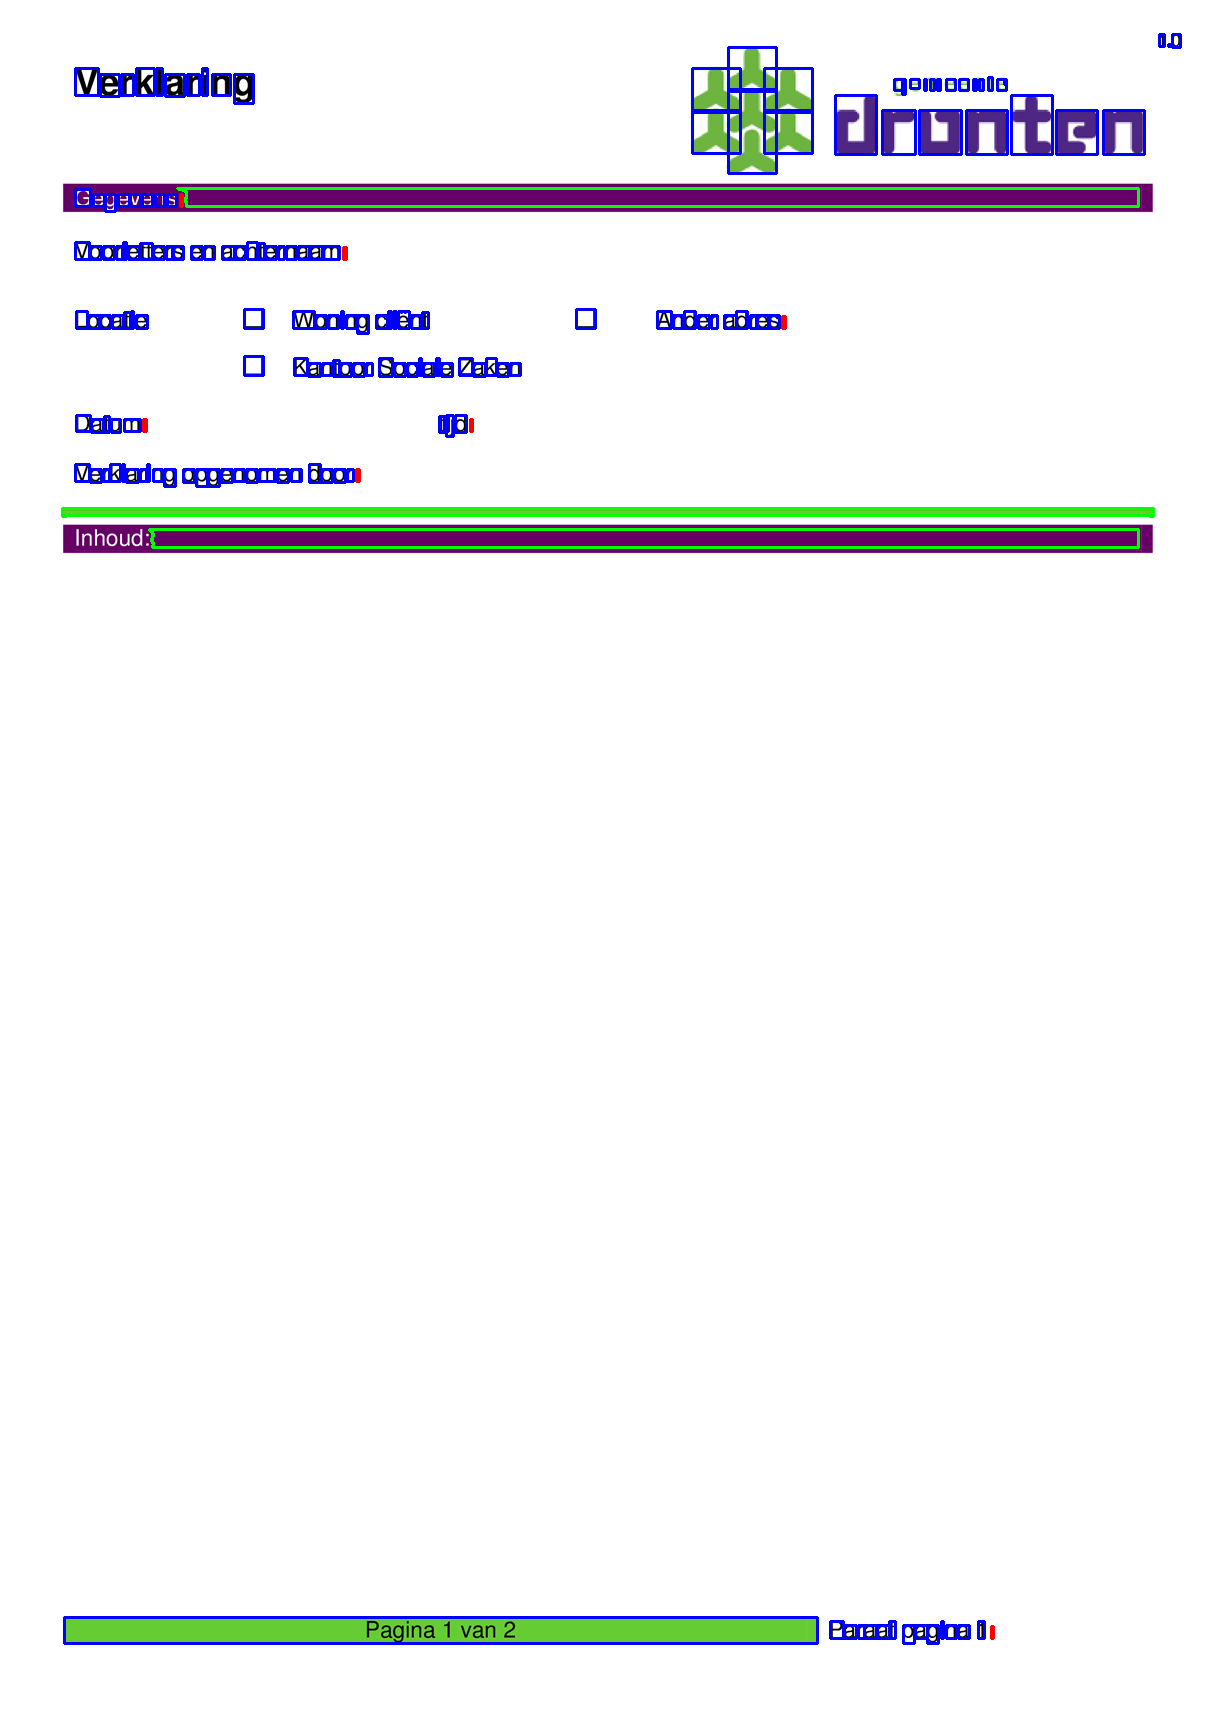
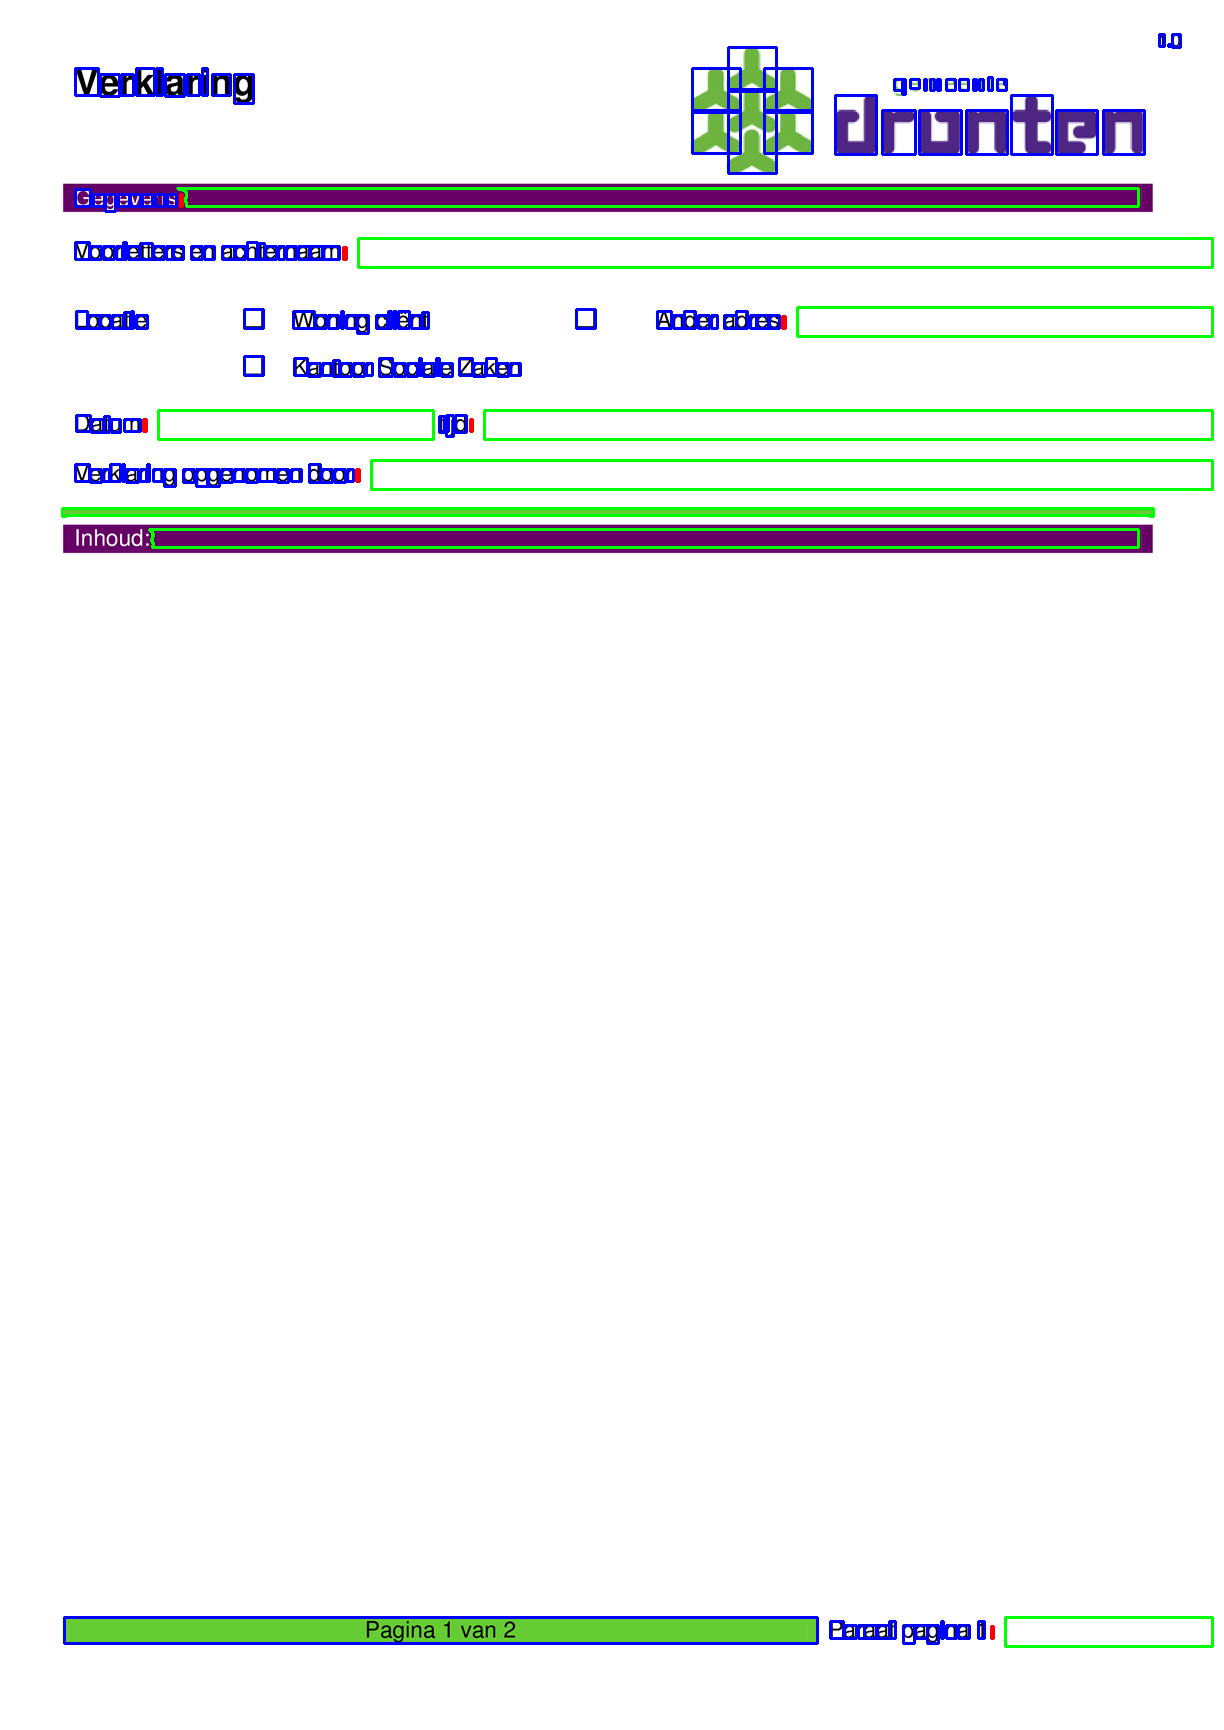
almost done!

Changed region(s): [[0.2794, 0.1249, 0.9935, 0.1561], [0.4036, 0.2497, 0.9935, 0.2809], [0.2794, 0.2497, 0.3415, 0.2809]]

diff --git a/FormReader/FormReader.py b/FormReader/FormReader.py
@@ -33,7 +33,7 @@ class Image_Data:
         thresh = cv2.adaptiveThreshold(self.imgray, 255, cv2.ADAPTIVE_THRESH_GAUSSIAN_C, cv2.THRESH_BINARY, 11, 2)
         self.image, self.contours, self.hierarchy = cv2.findContours(thresh, cv2.RETR_TREE, cv2.CHAIN_APPROX_SIMPLE)
         self.real_contours = np.array(self.contours)[self.hierarchy[0][:, 2] == -1]
-        self.special_contours = self.add_special_contours()
+        self.real_contours = self.add_special_contours()
         self.real_contours = self.get_array_size()
 
     def add_circles_and_squares(self):
@@ -45,7 +45,7 @@ class Image_Data:
         self.final_img = cv2.drawContours(cv2.imread(self.imgpath), self.special_char_array, -1, (0, 0, 255), 2)
         self.final_img = cv2.drawContours(self.final_img, self.char_array, -1, (255, 0, 0), 2)
         self.final_img = cv2.drawContours(self.final_img, self.real_contours, -1, (0, 255, 0), 2)
-        self.final_img = cv2.drawContours(self.final_img, self.special_contours, -1, (0, 0, 255), 2)
+        # self.final_img = cv2.drawContours(self.final_img, self.special_contours, -1, (0, 0, 255), 2)
 
     def get_wordless_img(self):
         cv2.imwrite('wordless_' + sys.argv[1], self.wordless_img)
@@ -116,44 +116,26 @@ class Image_Data:
         return self.real_contours[contours_to_keep]
 
     def add_special_contours(self):
-        # real_contour_list = list(self.real_contours)
-        test_contour_list = []
+        special_contour_list = list(self.real_contours)
         for special_char in self.special_char_array:
             e = special_char[:, 0, 0][0]
             w = special_char[:, 0, 0][2]
             s = special_char[:, 0, 1][0]
             n = special_char[:, 0, 1][2]
-            # print "East: %s, West: %s, South: %s, North: %s" % (e, w, s, n)
-            sample = self.imggray_original[e + self.window_width:, :]
-            ret, sample_thresh = cv2.threshold(sample, 127, 255, cv2.THRESH_BINARY)
-            sample_image, sample_contours, sample_hierarchy = cv2.findContours(sample_thresh, cv2.RETR_TREE, cv2.CHAIN_APPROX_SIMPLE)
-
-            new_n = new_w = 0
-            new_s = self.height
-            new_e = self.width
-
-            for contour in sample_contours:
-                x = contour[:, 0, 0]
-                y = contour[:, 0, 1]
-
-                min_x, max_x = np.min(x), np.max(x)
-                min_y, max_y = np.min(y), np.max(y)
-
-                if min_y < s & min_y > new_s:
-                    new_s = min_y
-                if max_y > n & max_y > new_n:
-                    new_n = max_y
-                if min_x < w & min_x > new_w:
-                    new_w = min_x
-                if max_x > e & max_x < new_e:
-                    new_e = max_x
-
-
-            new_e = new_e + e + self.window_width
             new_w = e + self.window_width
-            # print "East: %s, West: %s, South: %s, North: %s -- UPDATED" % (new_e, new_w, new_s, new_n)
-            special_char_boundaries = np.array([[[new_e, new_s]], [[new_e, new_n]],
-                                                [[new_w, new_n]], [[new_w, new_s]]])
-
-            test_contour_list.append(special_char_boundaries)
-        return np.array(test_contour_list)
+            new_n = int(n - .25 * self.window_height)
+            new_s = int(s + .25 * self.window_height)
+            sample = self.imggray_original[:, new_w:]
+            color_test = sample[s, 0]
+            try:
+                e_test = (np.where(sample[new_n:new_s, :] != color_test)[1])
+                if len(e_test) == 0:
+                    new_e = self.width - self.window_width
+                else:
+                    new_e = np.min(e_test) + new_w - 5
+                special_char_boundaries = np.array([[[new_e, new_s]], [[new_e, new_n]],
+                                                    [[new_w, new_n]], [[new_w, new_s]]])
+                special_contour_list.append(special_char_boundaries)
+            except:
+                next
+        return np.array(special_contour_list)
